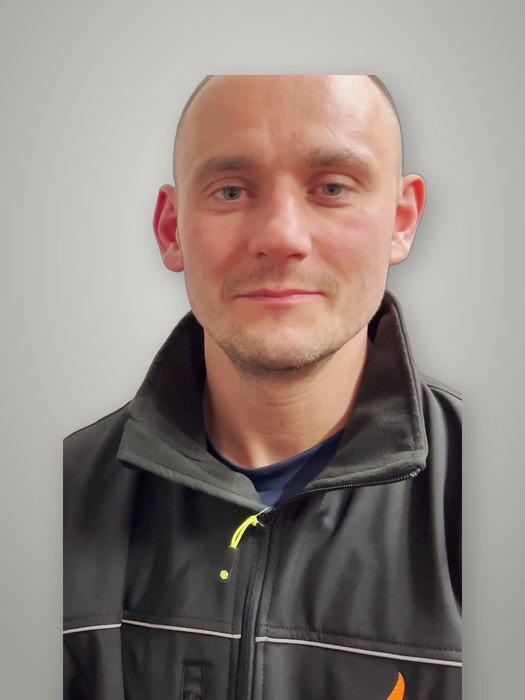
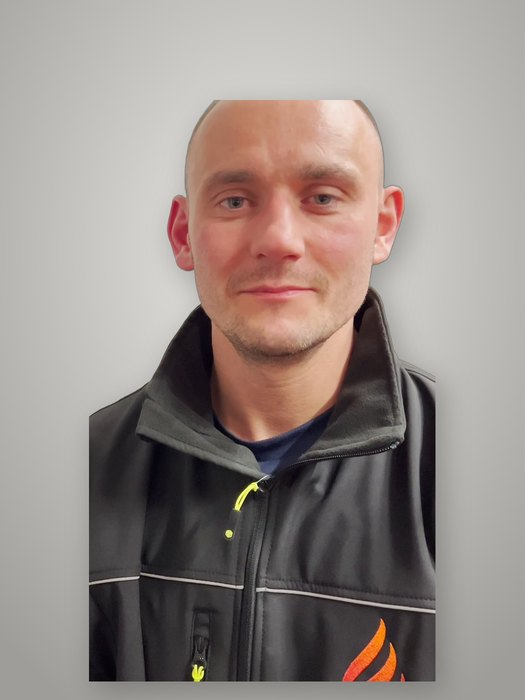
The Way In: Unit 19 fills the hero edge to edge; Billy eased back again
Claude-Session: https://claude.ai/code/session_01CuB6we9SgcpshYv4GnJKyd

Changed region(s): [[0.1219, 0.09, 0.9143, 1.0]]

diff --git a/sites/thewayin/public/index.html b/sites/thewayin/public/index.html
@@ -801,10 +801,10 @@ footer .ft-legal-in{margin-top:16px;font-family:var(--mono);font-size:10.5px;let
 #gate .line2 .caret{position:relative;top:.04em}
 .mark img{height:58px}
 .hero .ph{z-index:1}
-/* the whole of Unit 19 shows, at full height, with a blurred copy of itself filling the sides */
-.hero .ph img.bg{filter:blur(22px) brightness(.42) saturate(.9)!important;transform:scale(1.12)!important}
-.hero .ph img.fg{position:absolute;left:50%;top:50%;height:108%;width:auto;max-width:none;transform:translate(-50%,-50%)!important;object-fit:cover;box-shadow:0 0 140px rgba(0,0,0,.7)}
-@media(max-width:820px){.hero .ph img.fg{height:auto;width:100%}}
+/* Unit 19 fills the hero edge to edge: the full width of the photograph, no extra zoom, the sign and door kept in view */
+.hero .ph{inset:0}
+.hero .ph img.bg{display:none}
+.hero .ph img.fg{object-fit:cover;object-position:50% 56%;transform:none!important}
 .plate .badge{min-height:0;grid-template-rows:100px auto;align-items:end;align-content:start;justify-items:start;gap:12px}
 .plate .badge img,.plate .badge img.tl,.plate .badge img.pl,.plate .badge img.nbc,.plate .badge img.jcp{width:auto;height:100px;max-width:100%;object-fit:contain;object-position:left bottom;margin:0;border-radius:0;align-self:end}
 .plate .badge img.jcp{border-radius:10px}

diff --git a/staff/index.html b/staff/index.html
@@ -800,10 +800,10 @@ footer .ft-legal-in{margin-top:16px;font-family:var(--mono);font-size:10.5px;let
 #gate .line2 .caret{position:relative;top:.04em}
 .mark img{height:58px}
 .hero .ph{z-index:1}
-/* the whole of Unit 19 shows, at full height, with a blurred copy of itself filling the sides */
-.hero .ph img.bg{filter:blur(22px) brightness(.42) saturate(.9)!important;transform:scale(1.12)!important}
-.hero .ph img.fg{position:absolute;left:50%;top:50%;height:108%;width:auto;max-width:none;transform:translate(-50%,-50%)!important;object-fit:cover;box-shadow:0 0 140px rgba(0,0,0,.7)}
-@media(max-width:820px){.hero .ph img.fg{height:auto;width:100%}}
+/* Unit 19 fills the hero edge to edge: the full width of the photograph, no extra zoom, the sign and door kept in view */
+.hero .ph{inset:0}
+.hero .ph img.bg{display:none}
+.hero .ph img.fg{object-fit:cover;object-position:50% 56%;transform:none!important}
 .plate .badge{min-height:0;grid-template-rows:100px auto;align-items:end;align-content:start;justify-items:start;gap:12px}
 .plate .badge img,.plate .badge img.tl,.plate .badge img.pl,.plate .badge img.nbc,.plate .badge img.jcp{width:auto;height:100px;max-width:100%;object-fit:contain;object-position:left bottom;margin:0;border-radius:0;align-self:end}
 .plate .badge img.jcp{border-radius:10px}
